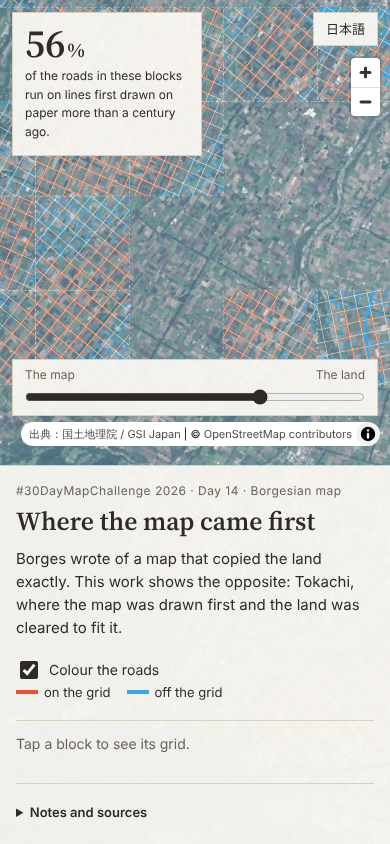
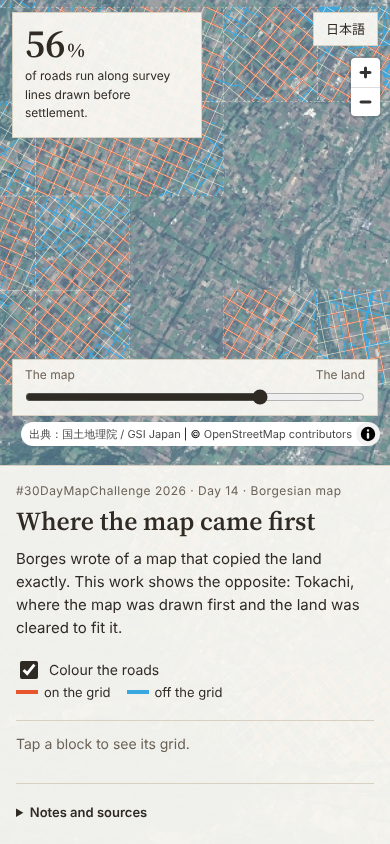
Rewrite headline figure caption

Changed region(s): [[0.0308, 0.0616, 0.5231, 0.1848]]

diff --git a/web/app.js b/web/app.js
@@ -18,8 +18,8 @@
       share: "Roads on the grid",
       length: "Road length",
       spacing: "Line spacing",
-      statText: "of the roads in these blocks run on lines first drawn on paper more than a century ago.",
-      statSub: "{tiles} farmland blocks, {km} km of road, counted within ±{tol} m of a fitted line. A randomly placed grid scores {base}%.",
+      statText: "of roads run along survey lines drawn before settlement.",
+      statSub: "{tiles} farmland blocks, {km} km of road, counted within ±{tol} m of the estimated lines. A grid placed at random gives {base}%.",
       notesTitle: "Notes and sources",
       note1: "The grid is estimated from present-day roads. It is not the original survey plan.",
       note2: "A road counts as on the grid when it runs within ±{tol} m of a fitted line and within {atol}° of its direction. The share depends on this threshold.",
@@ -48,8 +48,8 @@
       share: "格子の上を走る道路",
       length: "道路の長さ",
       spacing: "線の間隔",
-      statText: "この範囲の道路のうち、100年以上前に紙の上で引かれた線の上を走っている割合。",
-      statSub: "農地の{tiles}区画、道路{km}km。推定した線から±{tol}m以内で数えた値。でたらめな位置に置いた格子では{base}%。",
+      statText: "入植前に引かれた区画線の上を走る道路の割合",
+      statSub: "農地{tiles}区画・道路{km}kmのうち、推定した線から±{tol}m以内の道路。格子の位置をランダムにすると{base}%。",
       notesTitle: "注記と出典",
       note1: "格子は現在の道路から推定したもので、当時の区画図そのものではありません。",
       note2: "推定した線から±{tol}m以内を、線の向きと{atol}°以内の向きで走る道路を「格子の上」として数えています。割合はこのしきい値によって変わります。",
